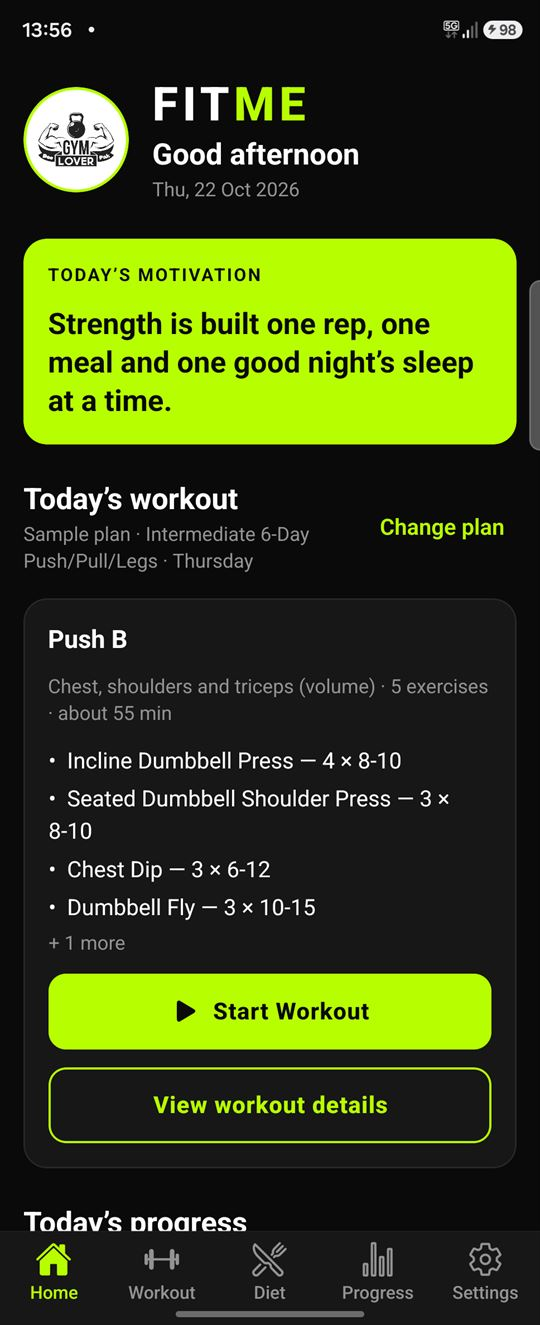
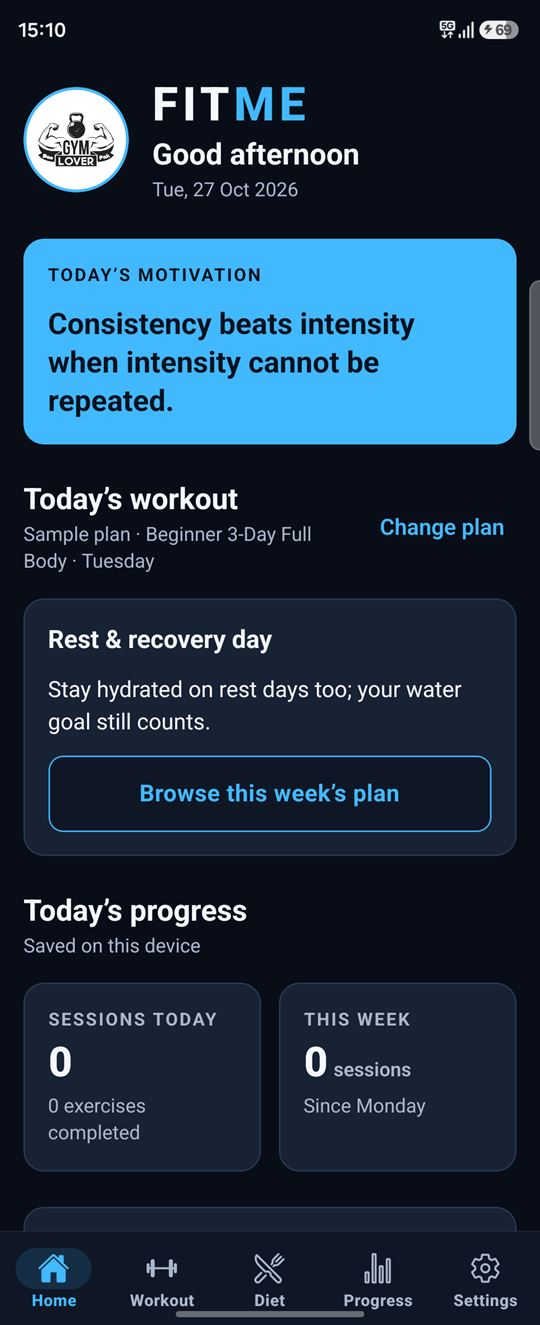
Website: FITME v1.1.1
- Midnight Titanium design to match the app.
- Feature cards for the new training styles and the BMI calculator; counts
  updated to 18 plans and 104 exercises (72 with animated demonstrations).
- Real v1.1.1 screenshots from a Galaxy Z Fold6; favicon, touch icon and
  share image regenerated from the new app icon.

diff --git a/fitme-website/src/styles.css b/fitme-website/src/styles.css
@@ -1,13 +1,19 @@
-/* FITME website — black & neon green. System fonts only (fast, no downloads). */
+/* FITME website — Midnight Titanium (matches the app). System fonts only (fast, no downloads). */
 :root {
-  --bg: #0a0a0a;
-  --bg-alt: #101010;
-  --card: #171717;
-  --border: #292929;
-  --neon: #b7ff00;
-  --neon-soft: rgba(183, 255, 0, 0.12);
-  --text: #ffffff;
-  --muted: #a3a3a3;
+  --bg: #080d18;
+  --bg-alt: #0f1726;
+  --card: #182235;
+  --card-elevated: #202d42;
+  --border: #293a50;
+  --accent: #42b8ff;
+  --accent-pressed: #2586d8;
+  --accent-soft: rgba(66, 184, 255, 0.14);
+  --on-accent: #061220;
+  --text: #f4f7fc;
+  --muted: #aab7ca;
+  --success: #35d39a;
+  --warning: #ffb547;
+  --error: #ff626c;
   --radius: 18px;
   --max: 1120px;
   color-scheme: dark;
@@ -59,15 +65,15 @@ h3 {
 }
 
 .accent {
-  color: var(--neon);
+  color: var(--accent);
 }
 
 .skip-link {
   position: absolute;
   left: -999px;
   top: 8px;
-  background: var(--neon);
-  color: #000;
+  background: var(--accent);
+  color: var(--on-accent);
   padding: 8px 14px;
   border-radius: 8px;
   z-index: 100;
@@ -78,7 +84,7 @@ h3 {
 }
 
 :focus-visible {
-  outline: 3px solid var(--neon);
+  outline: 3px solid var(--accent);
   outline-offset: 3px;
 }
 
@@ -89,7 +95,7 @@ h3 {
   justify-content: center;
   border-radius: 50%;
   background: #fff;
-  border: 3px solid var(--neon);
+  border: 3px solid var(--accent);
   overflow: hidden;
   flex-shrink: 0;
 }
@@ -115,7 +121,7 @@ h3 {
   width: min(320px, 70vw);
   height: min(320px, 70vw);
   border-width: 5px;
-  box-shadow: 0 0 80px rgba(183, 255, 0, 0.25);
+  box-shadow: 0 0 70px rgba(66, 184, 255, 0.22);
 }
 
 /* ---------- Header ---------- */
@@ -123,7 +129,7 @@ h3 {
   position: sticky;
   top: 0;
   z-index: 50;
-  background: rgba(10, 10, 10, 0.85);
+  background: rgba(8, 13, 24, 0.85);
   backdrop-filter: blur(10px);
   border-bottom: 1px solid var(--border);
 }
@@ -162,7 +168,7 @@ h3 {
 }
 
 .nav a:hover {
-  color: var(--neon);
+  color: var(--accent);
 }
 
 .menu-button {
@@ -198,7 +204,7 @@ h3 {
   inset: -40% -20% auto auto;
   width: 700px;
   height: 700px;
-  background: radial-gradient(circle, rgba(183, 255, 0, 0.18), transparent 60%);
+  background: radial-gradient(circle, rgba(66, 184, 255, 0.16), transparent 60%);
   pointer-events: none;
 }
 
@@ -212,7 +218,7 @@ h3 {
 
 .eyebrow {
   margin: 0 0 12px;
-  color: var(--neon);
+  color: var(--accent);
   font-weight: 800;
   letter-spacing: 0.16em;
   text-transform: uppercase;
@@ -290,14 +296,14 @@ h3 {
 }
 
 .button--primary {
-  background: var(--neon);
-  color: #0a0a0a;
-  box-shadow: 0 10px 40px rgba(183, 255, 0, 0.25);
+  background: var(--accent);
+  color: var(--on-accent);
+  box-shadow: 0 10px 32px rgba(66, 184, 255, 0.22);
 }
 
 .button--primary:hover {
   transform: translateY(-2px);
-  box-shadow: 0 14px 48px rgba(183, 255, 0, 0.35);
+  box-shadow: 0 14px 40px rgba(66, 184, 255, 0.3);
 }
 
 .button--primary:active {
@@ -305,8 +311,8 @@ h3 {
 }
 
 .button:disabled {
-  background: #2e2e2e;
-  color: #8a8a8a;
+  background: #253246;
+  color: #8b98ac;
   box-shadow: none;
   cursor: not-allowed;
   transform: none;
@@ -361,7 +367,7 @@ h3 {
 }
 
 .card:hover {
-  border-color: var(--neon);
+  border-color: var(--accent);
   transform: translateY(-3px);
 }
 
@@ -372,8 +378,8 @@ h3 {
   align-items: center;
   justify-content: center;
   border-radius: 14px;
-  background: var(--neon-soft);
-  color: var(--neon);
+  background: var(--accent-soft);
+  color: var(--accent);
   margin-bottom: 16px;
 }
 
@@ -401,7 +407,7 @@ h3 {
   overflow-x: auto;
   scroll-snap-type: x mandatory;
   padding: 4px max(20px, calc((100vw - var(--max)) / 2 + 20px)) 20px;
-  scrollbar-color: var(--neon) transparent;
+  scrollbar-color: var(--accent) transparent;
 }
 
 .shot {
@@ -415,8 +421,8 @@ h3 {
 .shot img {
   width: 100%;
   border-radius: 26px;
-  border: 3px solid #222;
-  background: #000;
+  border: 3px solid #1b2638;
+  background: #05080f;
   box-shadow: 0 20px 50px rgba(0, 0, 0, 0.6);
 }
 
@@ -449,8 +455,8 @@ h3 {
   flex: 0 0 40px;
   height: 40px;
   border-radius: 50%;
-  background: var(--neon);
-  color: #000;
+  background: var(--accent);
+  color: var(--on-accent);
   font-weight: 900;
   display: inline-flex;
   align-items: center;
@@ -470,8 +476,8 @@ h3 {
 .notes {
   margin-top: 28px;
   padding: 20px 24px;
-  border-left: 4px solid var(--neon);
-  background: var(--neon-soft);
+  border-left: 4px solid var(--accent);
+  background: var(--accent-soft);
   border-radius: 12px;
 }
 
@@ -502,7 +508,7 @@ h3 {
 
 .credit-name {
   margin: 0;
-  color: var(--neon);
+  color: var(--accent);
   font-size: 1.6rem;
   font-weight: 900;
 }
@@ -520,11 +526,11 @@ h3 {
 }
 
 .email svg {
-  color: var(--neon);
+  color: var(--accent);
 }
 
 .email:hover {
-  background: var(--neon-soft);
+  background: var(--accent-soft);
 }
 
 .socials {
@@ -541,7 +547,7 @@ h3 {
   border-radius: 50%;
   border: 1px solid var(--border);
   background: var(--card);
-  color: var(--neon);
+  color: var(--accent);
   display: inline-flex;
   align-items: center;
   justify-content: center;
@@ -549,14 +555,14 @@ h3 {
 }
 
 .socials a:hover {
-  border-color: var(--neon);
-  background: var(--neon-soft);
+  border-color: var(--accent);
+  background: var(--accent-soft);
   transform: translateY(-2px);
 }
 
 .copyright {
   margin: 28px 0 0;
-  color: #6b6b6b;
+  color: #8b98ac;
   font-size: 0.85rem;
 }
 

diff --git a/fitme-website/src/components/Features.jsx b/fitme-website/src/components/Features.jsx
@@ -1,20 +1,30 @@
 import useReveal from '../useReveal.js';
 
-// Every claim below describes a feature that exists in FITME v1.1.0.
+// Every claim below describes a feature that exists in FITME v1.1.1.
 const FEATURES = [
   {
     title: 'Workout plans',
-    text: '7 sample weekly plans from beginner to advanced — including Push/Pull/Legs, Upper/Lower and a Bro Split. Edit any day: add, remove and reorder exercises, change sets, reps, rest and warm-ups.',
+    text: '18 sample weekly plans from beginner to advanced — strength splits like Push/Pull/Legs, Upper/Lower and a Bro Split, plus the new training styles below. Edit any day: add, remove and reorder exercises, change sets, reps, rest and warm-ups.',
     icon: 'M4 10h2v4H4zM18 10h2v4h-2zM6 8h2v8H6zM16 8h2v8h-2zM8 11h8v2H8z',
   },
   {
+    title: 'New training styles',
+    text: 'HYROX-style and CrossFit-style plans for beginner, intermediate and advanced, six-pack abs core plans, a fat-loss plan, low-impact women’s cardio with light weights, and gentle prenatal movement (only with your clinician’s approval). Each session has a warm-up, cool-down and easier options.',
+    icon: 'M13 3 5 14h6l-1 7 8-11h-6z',
+  },
+  {
+    title: 'BMI calculator',
+    text: 'Enter weight in kg and height in cm or feet and inches to see your BMI and the standard adult screening category. BMI is a screening tool, not a diagnosis — it can be misleading for muscular athletes and is not used for children or during pregnancy.',
+    icon: 'M6 3h12a1 1 0 0 1 1 1v16a1 1 0 0 1-1 1H6a1 1 0 0 1-1-1V4a1 1 0 0 1 1-1zM8 6h8v4H8zM8 13h1M12 13h1M16 13h0M8 17h1M12 17h1M16 17h0',
+  },
+  {
     title: 'Exercise library',
-    text: '72 exercises across chest, back, shoulders, arms, legs & glutes, core and big compound lifts. Search by name and filter by difficulty, muscle group and equipment.',
+    text: '104 exercises across chest, back, shoulders, arms, legs & glutes, core, compound lifts and cardio & conditioning. Search by name and filter by difficulty, muscle group and equipment. Equipment-based moves list an alternative.',
     icon: 'M5 4h10l4 4v12H5zM8 11h8M8 14h8M8 17h5',
   },
   {
     title: 'Animated demonstrations',
-    text: 'Every exercise has its own original animated demonstration with start and end positions, a play/pause control, step-by-step form cues and safety notes.',
+    text: '72 exercises have their own original animated demonstration with start and end positions and a play/pause control. Every exercise has step-by-step form cues and safety notes.',
     icon: 'M12 4a2 2 0 1 1 0 4 2 2 0 0 1 0-4zM12 8v6M12 14l-3 6M12 14l3 6M12 10l-4 2M12 10l4-2',
   },
   {

diff --git a/fitme-website/index.html b/fitme-website/index.html
@@ -6,9 +6,9 @@
     <title>FITME by Gymlover Deepak — Offline Android Fitness App</title>
     <meta
       name="description"
-      content="FITME is a free, offline Android fitness app by Gymlover Deepak: workout plans from beginner to advanced, a 72-exercise library with animated demonstrations, a deadlift planner, Indian diet plans and progress tracking."
+      content="FITME is a free, offline Android fitness app by Gymlover Deepak: 18 workout plans from beginner to advanced including HYROX-style, CrossFit-style, core and fat-loss training, a 104-exercise library with animated demonstrations, a BMI calculator, a deadlift planner, Indian diet plans and progress tracking."
     />
-    <meta name="theme-color" content="#0A0A0A" />
+    <meta name="theme-color" content="#080D18" />
     <link rel="icon" type="image/png" href="/favicon.png" />
     <link rel="apple-touch-icon" href="/apple-touch-icon.png" />
 
@@ -18,7 +18,7 @@
     <meta property="og:title" content="FITME — Your fitness. Your rules." />
     <meta
       property="og:description"
-      content="Free offline Android fitness app: workout plans, exercise library with demonstrations, deadlift planner, diet plans and progress tracking."
+      content="Free offline Android fitness app: workout plans incl. HYROX-style and CrossFit-style, exercise library with demonstrations, BMI calculator, deadlift planner, diet plans and progress tracking."
     />
     <meta property="og:image" content="/og-image.jpg" />
     <meta property="og:image:width" content="1200" />

diff --git a/fitme-website/src/components/Screenshots.jsx b/fitme-website/src/components/Screenshots.jsx
@@ -3,11 +3,12 @@ import useReveal from '../useReveal.js';
 // Real screenshots of FITME running on a Samsung Galaxy Z Fold6 (cover screen).
 const SHOTS = [
   { src: '/screenshots/home.jpg', caption: 'Home dashboard' },
-  { src: '/screenshots/workout-planner.jpg', caption: 'Workout planner' },
+  { src: '/screenshots/workout-planner.jpg', caption: 'Training styles' },
+  { src: '/screenshots/training-styles.jpg', caption: 'HYROX-style plans' },
   { src: '/screenshots/exercise-library.jpg', caption: 'Exercise library' },
-  { src: '/screenshots/exercise-demo.jpg', caption: 'Animated demonstration' },
-  { src: '/screenshots/deadlift-planner.jpg', caption: 'Deadlift planner' },
+  { src: '/screenshots/exercise-demo.jpg', caption: 'Animated demonstrations' },
   { src: '/screenshots/deadlift-session.jpg', caption: 'Deadlift session' },
+  { src: '/screenshots/bmi-calculator.jpg', caption: 'BMI calculator' },
 ];
 
 export default function Screenshots() {

diff --git a/fitme-website/README.md b/fitme-website/README.md
@@ -27,9 +27,9 @@ Settings (all **public** — they are visible in the browser, so never put secre
 
 | Variable | Required | Example | Shown on the site |
 | --- | --- | --- | --- |
-| `VITE_APK_URL` | Yes, to enable the button | `https://github.com/<you>/<repo>/releases/download/v1.1.0/FITME-v1.1.0.apk` | Button opens this link |
-| `VITE_APK_VERSION` | Optional | `1.1.0` | “Version 1.1.0” under the button |
-| `VITE_APK_SIZE` | Optional | `38.4 MB` | Size under the button |
+| `VITE_APK_URL` | Yes, to enable the button | `https://github.com/<you>/<repo>/releases/download/v1.1.1/FITME-v1.1.1.apk` | Button opens this link |
+| `VITE_APK_VERSION` | Optional | `1.1.1` | “Version 1.1.1” under the button |
+| `VITE_APK_SIZE` | Optional | `38.5 MB` | Size under the button |
 
 Only `https://` links are accepted. Fill in version and size from the real APK file.
 
@@ -69,7 +69,7 @@ fitme-website/
     config.js              APK settings (from env vars), contact email, social links
     App.jsx, main.jsx      Page layout
     components/            Header, Hero (download button), Features, Screenshots, Install, Footer
-    styles.css             Black & neon-green design, responsive layout, reduced-motion support
+    styles.css             Midnight Titanium design (matches the app), responsive layout, reduced-motion support
     useReveal.js           Subtle fade-in on scroll
   public/
     logo.png               The GYM LOVER Deepak logo (copied from the app's assets)
@@ -81,6 +81,6 @@ fitme-website/
 
 ## Notes
 
-- Feature descriptions match FITME v1.1.0. Update `src/components/Features.jsx` when the app changes.
+- Feature descriptions match FITME v1.1.1. Update `src/components/Features.jsx` when the app changes.
 - Open Graph image URLs are relative (`/og-image.jpg`). Most platforms resolve them against your site; for
   best results on every platform, change them to your full Vercel URL in `index.html` after the first deploy.
